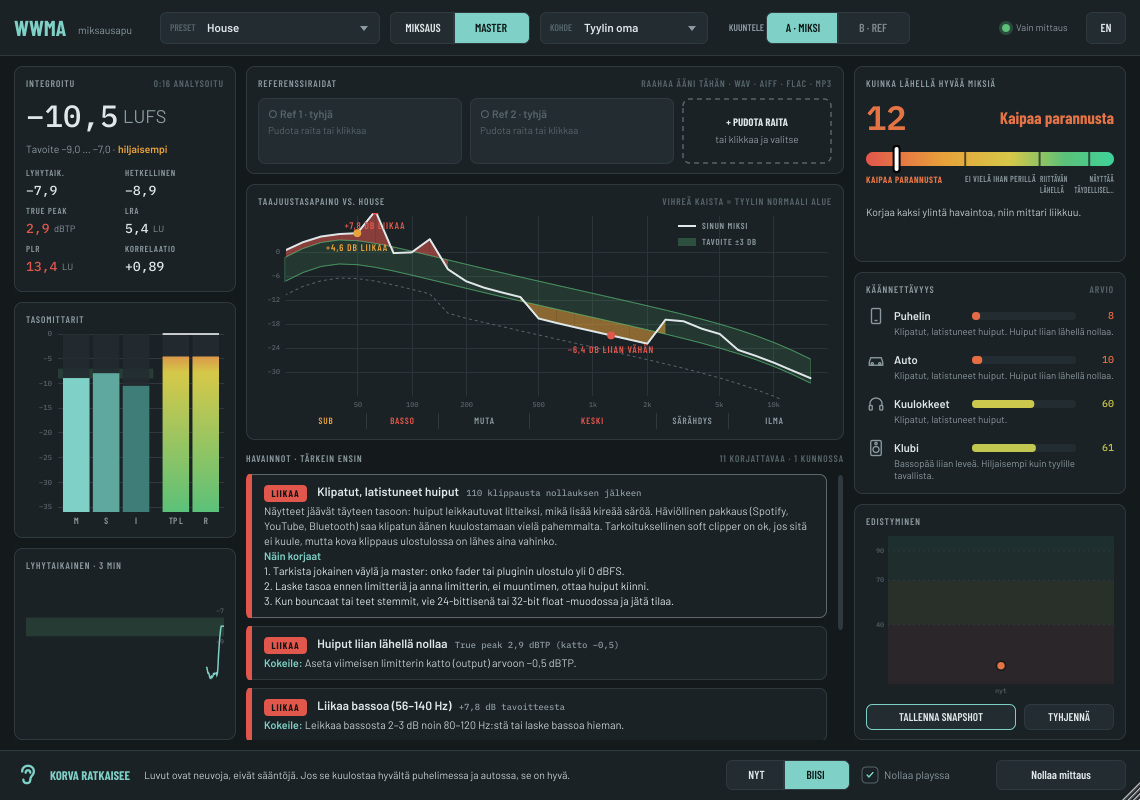
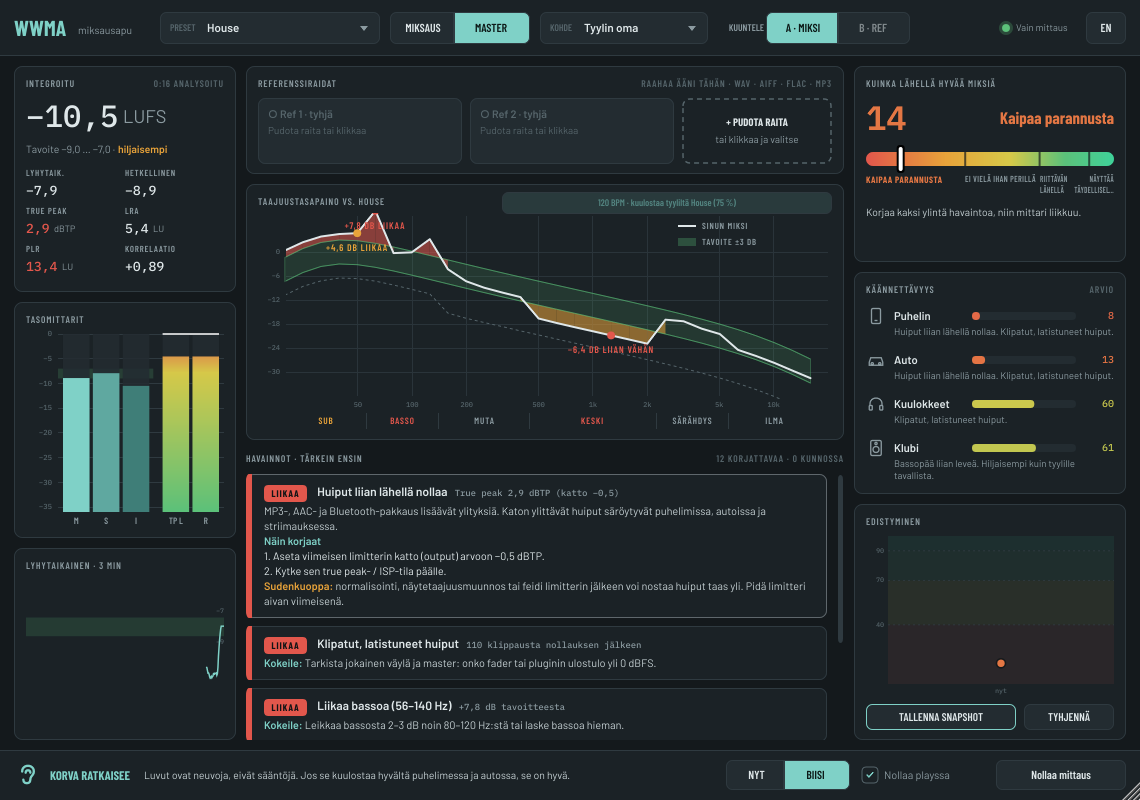
Manual, style suggestion docs, fresh screenshots, warning fixes
Claude-Session: https://claude.ai/code/session_01LuH9CFUZAbU5iA7mRvLogc

diff --git a/Source/advice/StyleGuess.cpp b/Source/advice/StyleGuess.cpp
@@ -42,11 +42,12 @@ float styleDistance (const Snapshot& s, const Profile& p)
     if (tempoUsable (s))
     {
         float best = 1.0e9f;
-        for (float factor : { 1.0f, 2.0f, 0.5f })
+        const float factors[] = { 1.0f, 2.0f, 0.5f };
+        for (int k = 0; k < 3; ++k)
         {
-            const float bpm = s.tempoBpm * factor;
+            const float bpm = s.tempoBpm * factors[k];
             const float outside = std::max ({ 0.0f, p.bpmMin - bpm, bpm - p.bpmMax });
-            best = std::min (best, outside / 4.0f + (factor != 1.0f ? 0.3f : 0.0f));
+            best = std::min (best, outside / 4.0f + (k > 0 ? 0.3f : 0.0f));
         }
         dist += best + (p.bpmMax - p.bpmMin) / 60.0f; // a wide range fits anything, so it says less
     }
@@ -104,10 +105,11 @@ StyleGuess guessStyle (const Snapshot& s)
         // say the tempo the way the style counts it: drum & bass is 174, not 87
         const auto& bp = profiles[(size_t) g.best];
         float bestOutside = 1.0e9f;
-        for (float factor : { 1.0f, 2.0f, 0.5f })
+        const float factors[] = { 1.0f, 2.0f, 0.5f };
+        for (int k = 0; k < 3; ++k)
         {
-            const float bpm = s.tempoBpm * factor;
-            const float outside = std::max ({ 0.0f, bp.bpmMin - bpm, bpm - bp.bpmMax }) + (factor != 1.0f ? 0.5f : 0.0f);
+            const float bpm = s.tempoBpm * factors[k];
+            const float outside = std::max ({ 0.0f, bp.bpmMin - bpm, bpm - bp.bpmMax }) + (k > 0 ? 0.5f : 0.0f);
             if (outside < bestOutside)
             {
                 bestOutside = outside;

diff --git a/Source/analysis/Analyzer.cpp b/Source/analysis/Analyzer.cpp
@@ -249,7 +249,6 @@ void Analyzer::updateOnsets (float lowDb, float highDb, bool open) noexcept
 void Analyzer::updateTempo() noexcept
 {
     // about once a second: autocorrelation of the last 5 s of onset strength, summed over the song
-    double mean = 0.0;
     // oldest first, lightly blurred (1-2-1) so that hits a frame apart still line up, mean removed
     auto prepareCurve = [this] (const std::array<float, fluxSize>& src, std::array<float, fluxSize>& dst) -> double
     {

diff --git a/docs/MANUAL.md b/docs/MANUAL.md
@@ -1,0 +1,143 @@
+# WWMA manual
+
+WWMA (Washable Withstandable Mixing Aid) listens to your master bus and teaches you what to change. It never changes your sound. The only exception is when you choose **B · REF** to hear a reference track.
+
+**Your ears decide.** Every number in WWMA is advice, not a rule. If the mix sounds good on a phone and in a car, it is good.
+
+## 1. Setting up
+
+1. Put WWMA **last** on the master bus, after your limiter.
+2. Pick a **Preset** for your style.
+   - Electronic styles come first in the list.
+   - Not sure which? Play the song for 15 seconds. WWMA suggests one (see section 4).
+3. Choose **MIX** or **MASTER**.
+   - Use **MIX** while you are still mixing. Loudness and the ceiling are not judged; you get headroom advice instead.
+   - Use **MASTER** when you are mastering. Everything is judged.
+4. Pick a loudness **Target**.
+   - The style's own target is a good start.
+   - If the song only goes to streaming, −14 LUFS is plenty.
+5. Choose a time window:
+   - **SONG** looks at everything since the last reset. Play the whole song.
+   - **NOW** looks at the last 3 seconds. Loop a part and tweak while you watch.
+6. Turn on **Reset on play** to start a new measurement every time the DAW starts playing.
+
+## 2. The screen
+
+| Panel | What it shows |
+|---|---|
+| Integrated | Integrated loudness (LUFS), short-term, momentary, true peak, LRA, PLR and correlation. |
+| Level meters | Mid, side and integrated level, and the true peak per channel. The green band is the target. |
+| Short-term · 3 min | Loudness history. When a reference is loaded, the **Mix vs reference** table is shown here instead. |
+| Reference tracks | Up to two reference tracks, each with its waveform. Click a waveform to jump. |
+| Tonal balance | Your mix (white) against the style's corridor (green), in plain-named ranges: sub, bass, mud, mids, harsh and air. Red means too much; orange means too little. |
+| Findings | At most four things to fix, most important first. Click a card for the reason, every step and the common trap. |
+| How close to a good mix | Score 0–100: Needs improvement, Not quite there yet, Close enough, Looks perfect. |
+| Translation | How the mix should hold up on a phone, in a car, on headphones and in a club. |
+| Progress | Save a snapshot before a change. The cards then show what got better or worse, and the chart tracks your score. |
+
+## 3. Every check, explained
+
+Each finding is **clearly** or **slightly** off. The score drops more for the clear ones and for the checks that matter most on small speakers.
+
+### Loudness and peaks
+
+| Finding | Fires when | First thing to try |
+|---|---|---|
+| Louder than needed | Integrated loudness is above the style's range (MASTER only). | Push the limiter less. Streaming turns loud masters down anyway. |
+| Quieter than usual for this style | Below the style's range (MASTER only). | Raise the limiter input a little at a time. |
+| Peaks too close to 0 dB | True peak is above the ceiling (MASTER only). | Set the limiter ceiling to −1 dBTP and turn on its true-peak mode. |
+| Over-compressed: punch is gone | PLR (peak to loudness) is below the style's range. | Less limiting, and a slower attack on bus compressors. |
+| Very dynamic for this style | PLR is above the style's range. | Gentle bus compression, or ride the quiet parts up. |
+| Big level jumps between sections | Loudness range (LRA) is above the style's maximum. | Automate the quiet sections up, or the loud ones down. |
+| Clipped, flat-topped peaks | Samples stuck at full scale, three or more in a row. | Lower the level before the limiter. |
+| No headroom left for mastering | Peaks above −1 dBTP while in MIX mode. | Pull the master fader down so peaks sit around −6 to −3 dBFS. |
+| Mixing into a limiter? | The mix is already louder than −11 LUFS in MIX mode. | Bypass the master limiter while you balance. |
+| DC offset | The waveform sits off centre (whole song). | A DC filter or a 10–20 Hz high-pass on the track that causes it. |
+
+### Low end
+
+| Finding | Fires when | First thing to try |
+|---|---|---|
+| Kick drowns in the bass | The kick rises too little above the bass level just before it. | Sidechain ducking: ratio 4:1, attack 0–5 ms, release 100–200 ms, 3–6 dB. |
+| Bass will disappear on phones | Too little 90–280 Hz compared with the sub. | Saturation on the bass, or a layer an octave up. |
+| Low end too wide | Too much side signal below 140 Hz. | Make everything below about 120 Hz mono. |
+| Booming note | One low band sticks out of its neighbours by more than 7 dB. | A narrow cut (Q 4–8) or a dynamic EQ on that note. |
+| Rumble below 30 Hz | Too much energy at 20–30 Hz. | High-pass the bass and kick at 25–30 Hz. |
+
+### Tone
+
+| Finding | Fires when | First thing to try |
+|---|---|---|
+| Too much / too little (sub, bass, mud, mids, harsh, air) | A broad range is outside the style's corridor, after level matching. | Cut before you boost. Find what masks the missing part. |
+| Piercing peak | One band at 2–4 kHz sticks out. | Find the instrument and cut it narrowly there. |
+| Sharp "s" sounds and hiss | A narrow bump at 5–10 kHz above both neighbours. | A de-esser on the vocal and on its reverb sends. |
+| Hole in the spectrum | One band is far below its neighbours. | Check for over-cutting EQs, or fill the gap with an instrument. |
+
+### Stereo
+
+| Finding | Fires when | First thing to try |
+|---|---|---|
+| Phase problems | Correlation below 0.3. | Look for wideners, Haas delays and flipped layers. |
+| Very wide stereo image | Side is close to mid overall. | Less widening; keep important parts in the centre. |
+| Narrow, almost mono mix | Hardly any side signal. | Pan support parts and add a little stereo reverb. |
+| Top end mostly on the sides | Above 4 kHz the side is louder than the mid. | Put something bright in the centre and widen less. |
+| Mix leans to one side | Left and right differ by more than 1.5 dB. | Check panning and any one-sided effects. |
+
+### Drums
+
+Drum advice only appears when there are drums: regular kicks or a clear beat.
+
+| Finding | Fires when | First thing to try |
+|---|---|---|
+| Drums lack snap | Snare and hat hits barely stand out of the 1.5–6 kHz region. | A slower attack on bus compressors, or a transient shaper on the snare. |
+| Drum hits poke out too much | Very spiky snare and hat hits. | Turn them down 1–2 dB, or glue the drum bus. |
+
+### Listening tips
+
+A rotating tip (every 30 seconds) reminds you of habits that don't show on a meter: listen quietly, check in mono, check on your phone, take breaks, match loudness before comparing, don't decide in solo.
+
+## 4. Style suggestion
+
+After about 15 seconds of music, WWMA guesses which preset the song sounds closest to. The guess appears at the top of the tonal panel:
+
+> Sounds like Drum & Bass (40 %) · 174 BPM - use it?
+
+Click it to switch to that preset. **Nothing changes unless you click.** When the guess agrees with your preset, the chip just says so.
+
+How it works, without any machine learning:
+
+- **Tempo** comes from how regularly drum hits repeat. Half-time and double-time are understood, so drum & bass heard at 87 BPM still counts as 174.
+- **Tonal balance** is compared with each preset's corridor.
+- **Loudness range** counts too: a very dynamic song is unlikely to be a club style.
+
+The percentage is shared between close relatives. "House 72 %" means the house family (House, Deep, Tech, Afro, Minimal) together.
+
+Limits:
+
+- Styles at the same tempo (techno and UK garage at 132, for example) are easy to mix up.
+- Your own choice and your ears win.
+
+## 5. Reference tracks
+
+Drag a track you like (WAV, AIFF, FLAC, MP3 or OGG; also M4A on macOS and Windows) onto the window, or click a slot to browse. It is analysed once in the background. Then:
+
+- Its tonal curve appears as a purple dashed line, level-matched to your mix.
+- The **Mix vs reference** table shows the differences.
+- Every finding also shows the reference's value.
+- Choose the **Reference track** preset to use the reference as the target.
+- **B · REF** plays the reference instead of your mix, at the same loudness and following your song position. This is the only time WWMA changes what you hear, and the top bar turns purple while it does.
+
+## 6. Good habits
+
+1. Balance first, plugins later: kick and bass, then snare, then the lead, then the rest.
+2. Decide who owns the sub (kick or bass), and keep everything below about 120 Hz mono.
+3. Clear the mud: 200–400 Hz builds up when many full sounds play together.
+4. Let the drums through: sidechain the bass, and use a slower attack on bus compressors.
+5. Keep important parts in the centre, and check in mono.
+6. Master last: leave headroom while mixing, then set the limiter ceiling to −1 dBTP.
+
+## 7. Remember
+
+- The score tells you how close you are to a typical master in the style. It does not tell you whether the song is good.
+- The presets are educated guesses from common practice. The most accurate target is a reference track you like.
+- Always check on a phone and in a car before you call it done.

diff --git a/docs/OPAS.md b/docs/OPAS.md
@@ -9,7 +9,7 @@ WWMA ei korjaa mitään puolestasi. Se kuuntelee miksauksesi, kertoo selkokielel
 ## 1. Käyttöönotto
 
 1. Laita WWMA masterväylän **viimeiseksi** pluginiksi, limitterin jälkeen.
-2. Valitse **Preset**: oma tyylisi. Elektroniset ovat listan alussa.
+2. Valitse **Preset**: oma tyylisi. Elektroniset ovat listan alussa. Jos et ole varma, soita kappaletta 15 sekuntia: WWMA ehdottaa lähintä tyyliä (ks. alla).
 3. Valitse **MIX**, kun vielä miksaat. Silloin äänekkyyttä ja huippuja ei arvioida, vain tasapainoa, leveyttä, dynamiikkaa ja rumpuja. Valitse **MASTER**, kun masteroit.
 4. Valitse **Target** eli äänekkyystavoite. Tyylin oma on hyvä alku. Jos kappale menee vain suoratoistoon, −14 LUFS riittää.
 5. Soita koko kappale **BIISI**-tilassa tai looppaa työstettävää kohtaa **NYT**-tilassa. Kielen vaihdat oikean yläkulman FI/EN-napista.
@@ -34,7 +34,19 @@ WWMA ei korjaa mitään puolestasi. Se kuuntelee miksauksesi, kertoo selkokielel
 
   **A/B**-kytkin soittaa referenssiä miksauksesi tilalla samalla äänekkyydellä. Se on ainoa tilanne, jossa WWMA muuttaa kuulemaasi, ja silloin yläpalkin merkki muuttuu violetiksi.
 
-## 3. Hyvä työjärjestys
+## 3. Tyyliehdotus
+
+Noin 15 sekunnin jälkeen WWMA arvaa, mitä presettiä kappale muistuttaa eniten, ja näyttää sen taajuustasapainon yläreunassa, esimerkiksi "Kuulostaa tyyliltä Drum & Bass (40 %) · 174 BPM – vaihdetaanko?". Klikkaa, niin preset vaihtuu. **Mikään ei muutu, ellet klikkaa.**
+
+Arvaus perustuu kolmeen asiaan, eikä siinä ole koneoppimista:
+
+- **Tempo** lasketaan siitä, kuinka säännöllisesti rumpuiskut toistuvat. Half-time ymmärretään, joten 87 BPM:nä kuuluva drum & bass lasketaan 174:ksi.
+- **Taajuustasapainoa** verrataan jokaisen presetin käytävään.
+- **Dynamiikka** vaikuttaa myös: hyvin dynaaminen kappale tuskin on klubityyliä.
+
+Prosentti jaetaan lähisukulaisten kesken: "House 72 %" tarkoittaa koko house-perhettä (House, Deep, Tech, Afro, Minimal). Samassa tempossa olevat tyylit, kuten techno ja UK garage 132 BPM:ssä, menevät helposti sekaisin, joten oma valintasi ja korvasi ratkaisevat.
+
+## 4. Hyvä työjärjestys
 
 1. **Tasapaino ensin.** Säädä faderit ennen pluginien lisäämistä. Kick ja basso ensin, sitten virveli, sitten liidi tai vokaali, sitten loput.
 2. **Matalat kuntoon.** Päätä, kumpi omistaa subin, kick vai basso. Pidä kaikki alle noin 120 Hz monona. Ylipäästösuodata muut äänet.
@@ -43,7 +55,7 @@ WWMA ei korjaa mitään puolestasi. Se kuuntelee miksauksesi, kertoo selkokielel
 5. **Tila ja leveys.** Pidä tärkeät äänet keskellä ja levitä tukiosat sivuille. Tarkista monona.
 6. **Masterointi vasta lopuksi.** Jätä miksaukseen tilaa (huiput noin −6…−3 dBFS). Lisää limitteri vasta MASTER-vaiheessa ja säädä katto (−1 dBTP) sekä äänekkyys tyylin mukaan.
 
-## 4. Perusasiat lyhyesti
+## 5. Perusasiat lyhyesti
 
 ### EQ
 
@@ -69,7 +81,7 @@ WWMA ei korjaa mitään puolestasi. Se kuuntelee miksauksesi, kertoo selkokielel
 - **Virveli tarvitsee** runkoa noin 200 Hz:ssä ja napsua 2–5 kHz:ssä.
 - Jos rummuista puuttuu terävyys, syyllinen on usein limitteri tai väyläkompressori, ei EQ.
 
-## 5. Yleiset sudenkuopat (WWMA huomaa nämä)
+## 6. Yleiset sudenkuopat (WWMA huomaa nämä)
 
 | Sudenkuoppa | Mitä tapahtuu | Mitä tehdä |
 |---|---|---|
@@ -99,8 +111,10 @@ WWMA ei korjaa mitään puolestasi. Se kuuntelee miksauksesi, kertoo selkokielel
 - **Kovempi kuulostaa paremmalta.** Tasaa äänekkyys aina ennen vertailua. A/B-kytkin tekee sen referenssille.
 - **Soolo johtaa harhaan.** Tee päätökset kaiken soidessa.
 
-## 6. Muista
+## 7. Muista
 
 - Pisteet kertovat, kuinka lähellä tyylin tyypillistä masteria olet. Ne eivät kerro, onko biisi hyvä.
 - Presetit ovat valistuneita arvauksia yleisestä käytännöstä. Tarkin tavoite on referenssiraita, josta pidät.
 - Tarkista lopuksi aina puhelimesta ja autossa. Jos se kuulostaa niissä hyvältä, se on hyvä.
+
+Jokainen tarkistus on selitetty englanniksi [käyttöohjeessa](MANUAL.md).

diff --git a/README.md b/README.md
@@ -30,6 +30,7 @@ Put it last on your master bus. It listens to your mix and tells you in plain wo
 
   **A/B** plays the reference instead of your mix at the same loudness, following your song position. Click the waveform to jump. This is the only time WWMA changes what you hear, and only while you have B selected.
 - **Mix and Master modes.** In Mix mode, loudness and ceiling are not judged yet; you get headroom advice instead.
+- **Style suggestion.** After 15 seconds WWMA guesses the closest preset from the tempo (it knows half-time, so drum & bass counts as 174 BPM), the tonal balance and the dynamics, with a confidence: "Sounds like House (72 %) · 124 BPM - use it?". It only switches when you click.
 - **NOW and SONG.** NOW looks at the last 3 seconds, so you can loop a part and tweak it. SONG looks at everything since the last reset.
 - **English and Finnish.** Use the FI/EN button to switch.
 
@@ -39,10 +40,11 @@ Put it last on your master bus. It listens to your mix and tells you in plain wo
 
 **Electronic:**
 
-- House, Deep House, Tech House
-- Techno, Melodic Techno / Progressive
-- Trance, EDM / Big Room
-- Drum & Bass, Dubstep / Bass Music, Hardstyle
+- House, Deep House, Tech House, Afro House, Minimal / Microhouse
+- Techno, Hard Techno, Melodic Techno / Progressive
+- Trance, Psytrance, EDM / Big Room
+- UK Garage / Speed Garage, Breaks
+- Drum & Bass, Dubstep / Bass Music, Future Bass, Hardstyle
 - Synthwave, Ambient / Downtempo, Lo-fi / Chillhop
 - Electronic (streaming)
 
@@ -61,7 +63,9 @@ The loudness target can follow the style, or be set to -14 LUFS (streaming), -8 
 
 Get the installer for your system from the [Releases](../../releases) page. See [docs/INSTALL.txt](docs/INSTALL.txt) for installing by hand (including macOS quarantine and Linux paths).
 
-There is a beginner's guide to mixing with WWMA in Finnish: [docs/OPAS.md](docs/OPAS.md).
+The [manual](docs/MANUAL.md) explains every check and what to try first. There is also a beginner's guide to mixing with WWMA in Finnish: [docs/OPAS.md](docs/OPAS.md).
+
+![The style suggestion](docs/images/wwma-style.png)
 
 ## Build
 
@@ -78,6 +82,9 @@ The self test checks:
 - the advice on synthetic mixes
 - bit-exact pass-through and stability from 22 to 192 kHz
 - reference tracks and A/B level matching
+- synthetic songs (kick, bass, snare, hats, pad, lead, limiter) with typical mistakes, each of which must be caught
+- tempo and the style guess
+- CPU load (about 2 % of one core at 48 kHz)
 
 It also renders the screenshots.
 
@@ -86,6 +93,8 @@ cmake -B build -DWWMA_BUILD_TOOLS=ON
 cmake --build build --target wwma_selftest
 ./build/wwma_selftest_artefacts/Release/wwma_selftest screenshots
 ```
+
+`wwma_calibrate` prints what WWMA says about each synthetic mistake (or `wwma_calibrate styles` for the style guess), which is handy when tuning thresholds.
 
 CI builds macOS (universal), Windows x64 and ARM64, and Linux x64 and ARM64. On x64 it validates the plugin with pluginval, and on ARM it runs the self test. It also builds installers, and makes a release for every `v*` tag.
 
